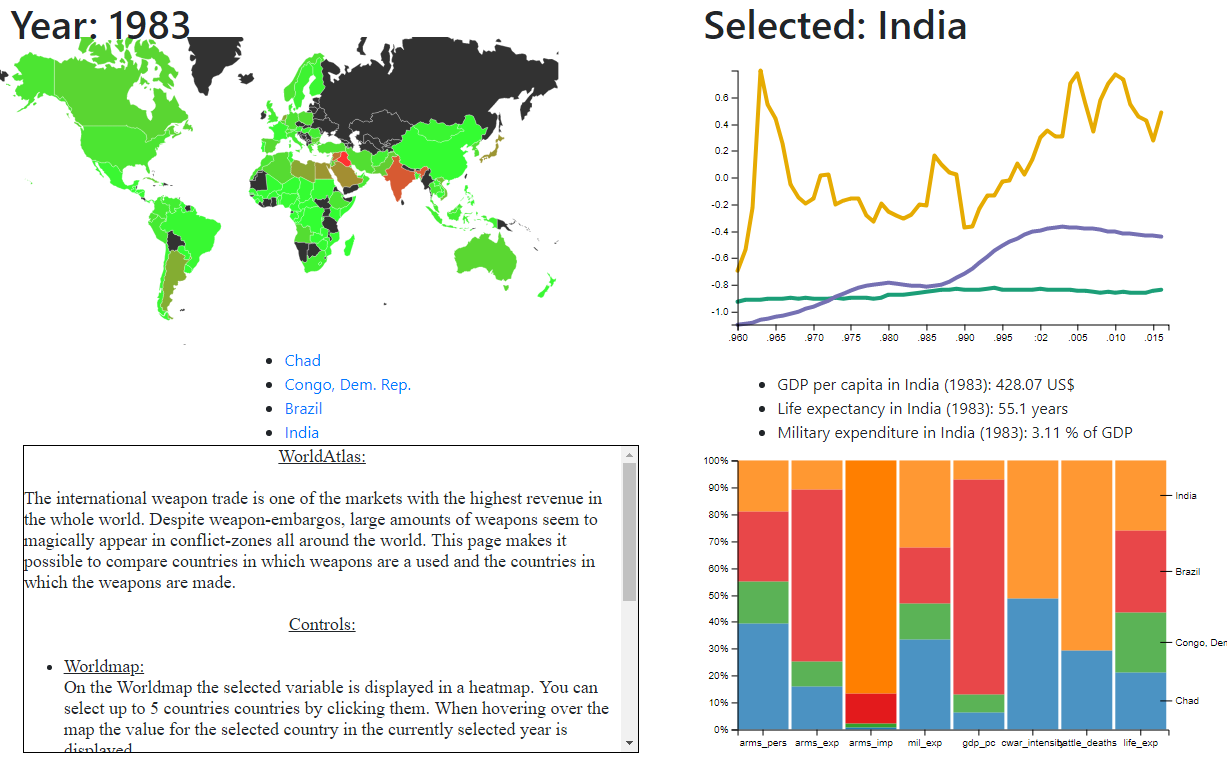
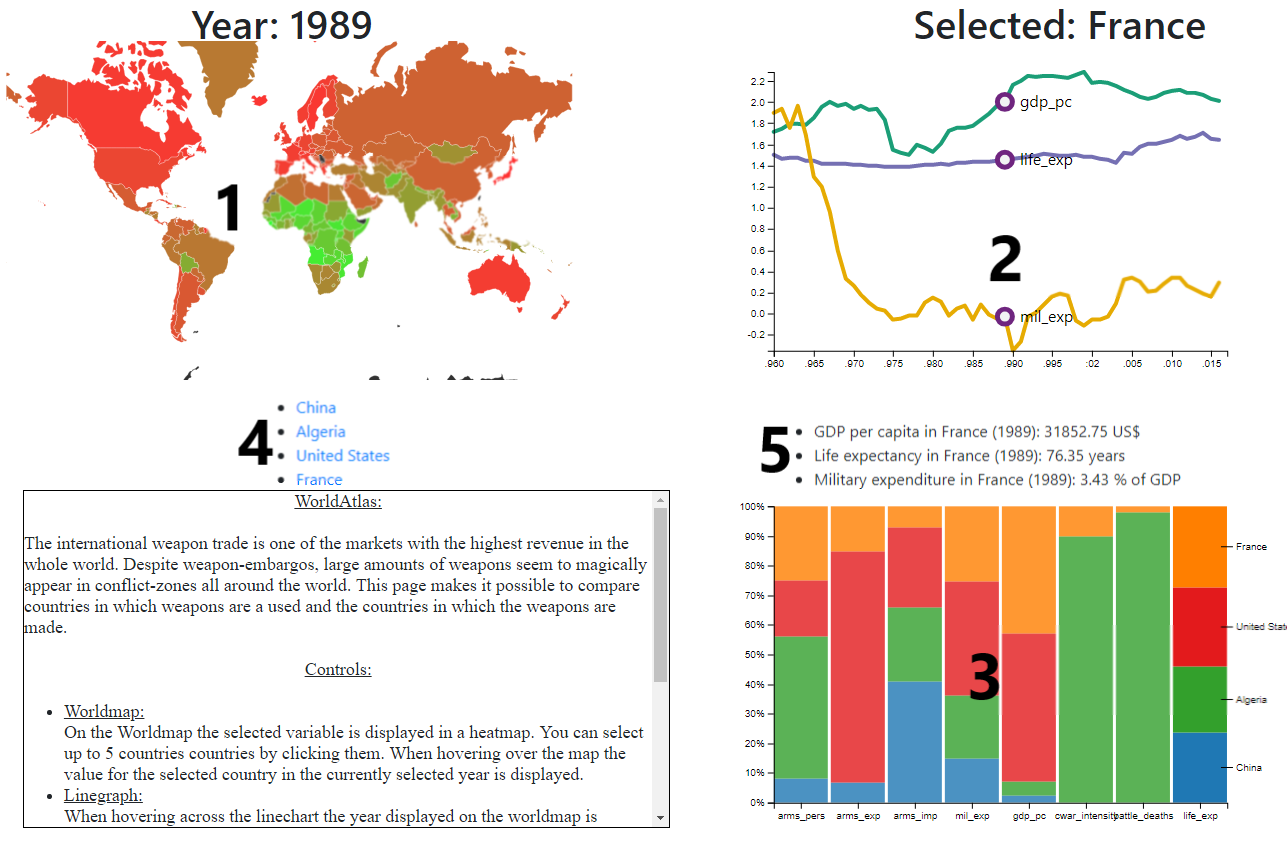
update report

diff --git a/scripts/linegraph.js b/scripts/linegraph.js
@@ -33,11 +33,11 @@ function drawLinegraph(data, stats, selection, size, countries, mapData) {
   var linecolors = ["#1b9e77","#7570b3","#e6ab02"];
   var lineText = {};
   lineText.names = {"gdp_pc": "GDP per capita",
-                        "mil_exp" : "Military expenditure",
-                        "life_exp" : "Life expectancy"};
+                    "mil_exp" : "Military expenditure",
+                    "life_exp" : "Life expectancy"};
   lineText.suffix = {"gdp_pc": " US$",
-                        "mil_exp" : " % of GDP",
-                        "life_exp" : " years"};
+                     "mil_exp" : " % of GDP",
+                     "life_exp" : " years"};
   let temp = makeLinegraph(size);
   var linegraph = temp[1];
   var svg = temp[0];

diff --git a/style/style.css b/style/style.css
@@ -11,7 +11,7 @@
 
 h1#countryDisplay {
   position: relative;
-  left: 5%;
+  left: 35%;
 }
 
 
@@ -115,7 +115,7 @@ div.info, div.controls{
 h1#yearDisplay {
   position: absolute;
   width: 40%;
-  left: 1%;
+  left: 15%;
 }
 
 div.map {

diff --git a/REPORT.md b/REPORT.md
@@ -4,25 +4,66 @@
 
 ## Description
 
-![Final Version](/doc/screenshotFinal.PNG)
 The Application aims at showing different aspects of data for multiple countries.
 The data shown is about military variables, developmental factors and weapon import
 and exports. The data is shown on a longitudinal(linegraph), cross-sectional(worldmap)
 and on a averaged level(barchart).
 
+![Final Version](/doc/screenshotFinal.PNG)
+
 ### Here a short summary of the elements and their purpose:
 
-- *Worldmap*
+- *Worldmap* **(1)**
   - Show data per year per country as a heatmap relative to the other countries
   - Select country to display in the linegraph by clicking
   - Select up to 4 countries to compare to each other with the stacked barchart by clicking
 
-- *Linegraph*
+- *Linegraph* **(2)**
+  - Compares multiple series within one country
+  - Always displays either the world mean or when a country was selected on the map the most recent selected country is shown
   - Shows Variables GDP, life expectancy and Military expenditure
     - These all give information about the development of a country
     - All variables on one scale
-      - Z-scores (more about z-scores later)
+      - Standardized: Z-scores (more about z-scores later)
     - Shows the time-trend of developmental factors compared to the rest of the world
       - Cross-sectional comparison: Every year-value is compared to the global mean per year
     - Mouseover selects years displayed on the worldmap
-    - Static tooltips show exact values belonging to the z-scores
+    - Static tooltips show exact values belonging to z-scores **(5)**
+
+- *Barchart* **(3)**
+  - Compares countries across series
+  - Countries selected on the map are displayed
+  - Clicking the bar will select the series associated with the bar on the worldmap
+  - Hovering over the abbreviated labels will reveal the full series names
+
+- *List* **(4)**
+  - Overview of countries selected for barchart
+    - Clicking on the name will lead to the wikipedia-page for more information
+  - When more than 4 countries are selected the country selected first is removed from the list
+
+![Functional design](/doc/finalDesign.PNG)
+*Final version of the functional design*
+
+### Challenges:
+- *Data*
+  Finding data that can feed 3 visualizations *and* tell a nice story was hard. I searched for developmental factors in the worldbank database and chose for:
+
+  - GDP per capita
+    -Gives information about financial development
+  - Life expectancy
+    - Provides information about the medical/healthcare development
+  - Military expenditure
+    - Provides information about the importance of military services for the country
+
+  First i thought that i could use the WDR database but it seemed that the download didnt work. I wrote an e-mail to the worldbank staff about this and got a reply in the last week of the project that the issue had been fixed. Fortunately the function for loading the data are general so that it wasnt much effort to add the missing datasets. The following data has been taken from the WDR database:
+
+  - Battle deaths
+    - Annual number of battle-deaths caused by civil uprisings
+  - Civil war intensity
+    - Estimate of intensity of civil war from SIPRI
+
+- *Charts*
+  - Stacked bargraph instead of marimekko
+      These two charts are almost the same with behalf on one extra dimension: the column width. It would have been possible to implement this given my data but i chose to use the stacked barchart because otherwise the visualisations could have gotten too complex.
+  - Linegraph instead of scatterplot
+      
